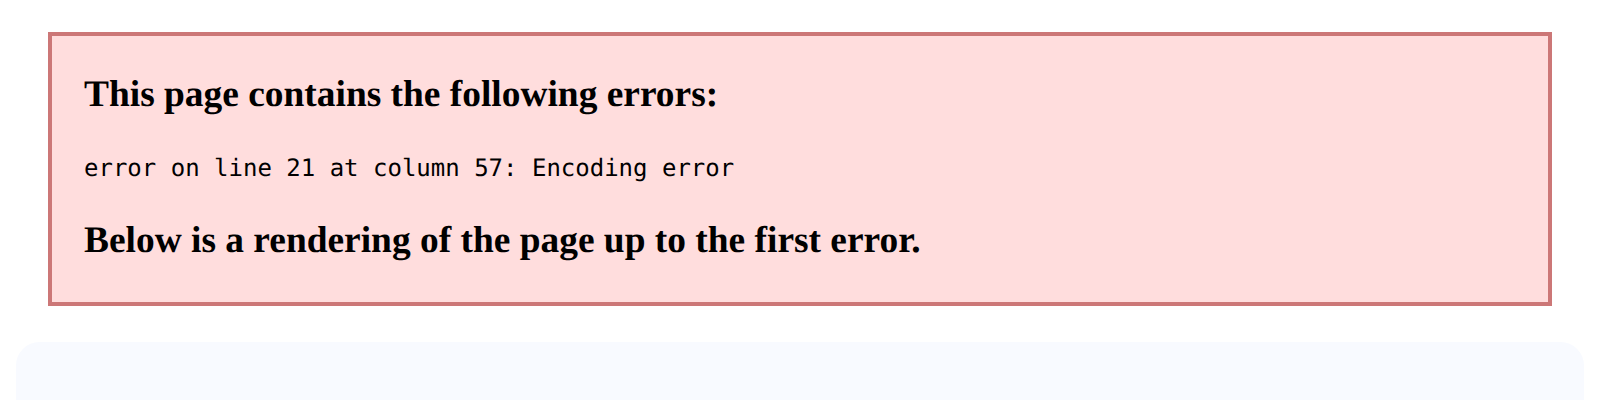
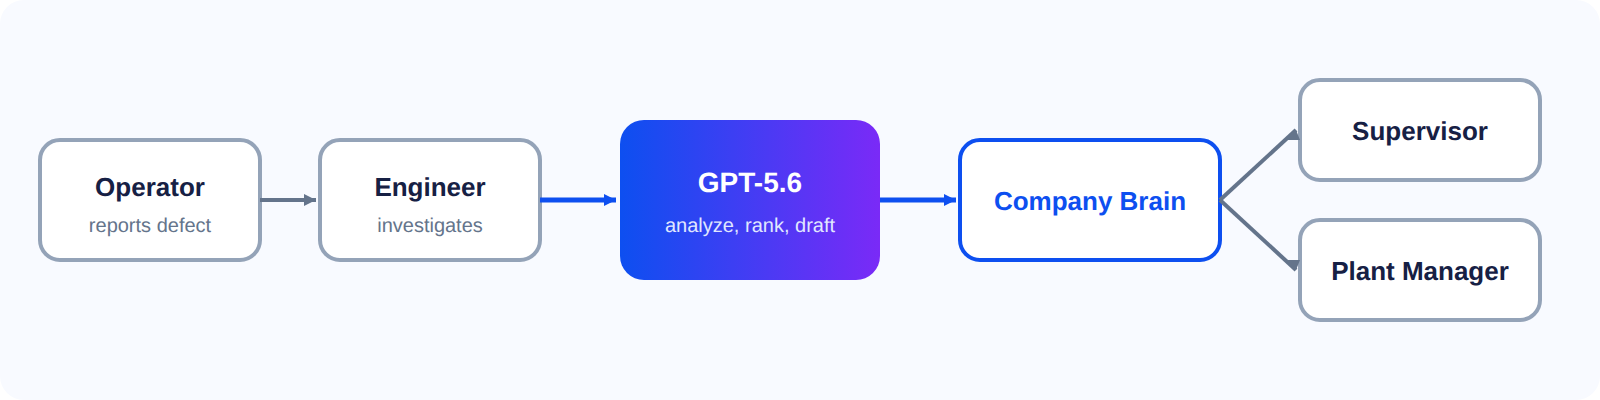
Fix README diagrams: remove invalid SVG bytes, use PNG on GitHub

diff --git a/README.md b/README.md
@@ -124,7 +124,7 @@ GPT-5.6 runs inside the live app via the OpenAI Responses API:
 ## Architecture
 
 <p align="center">
-  <img src="docs/images/architecture-diagram.svg" alt="Users → Buek Core → AI Core + Domain Modules → Knowledge + Database" width="720" />
+  <img src="docs/images/screenshots/architecture-diagram.png" alt="Users to Buek Core to AI Core and Domain Modules to Knowledge and Database" width="720" />
 </p>
 
 ```text